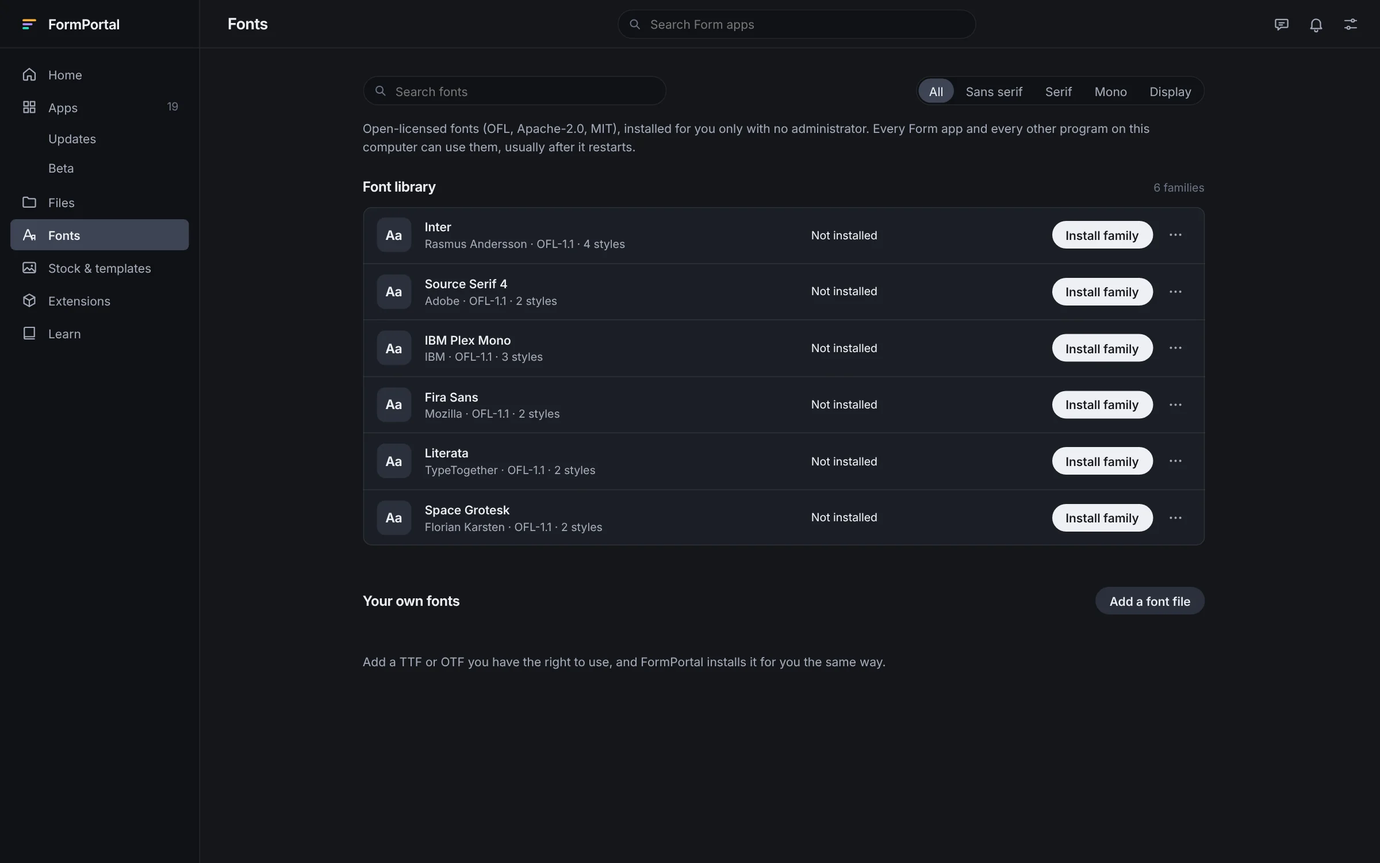
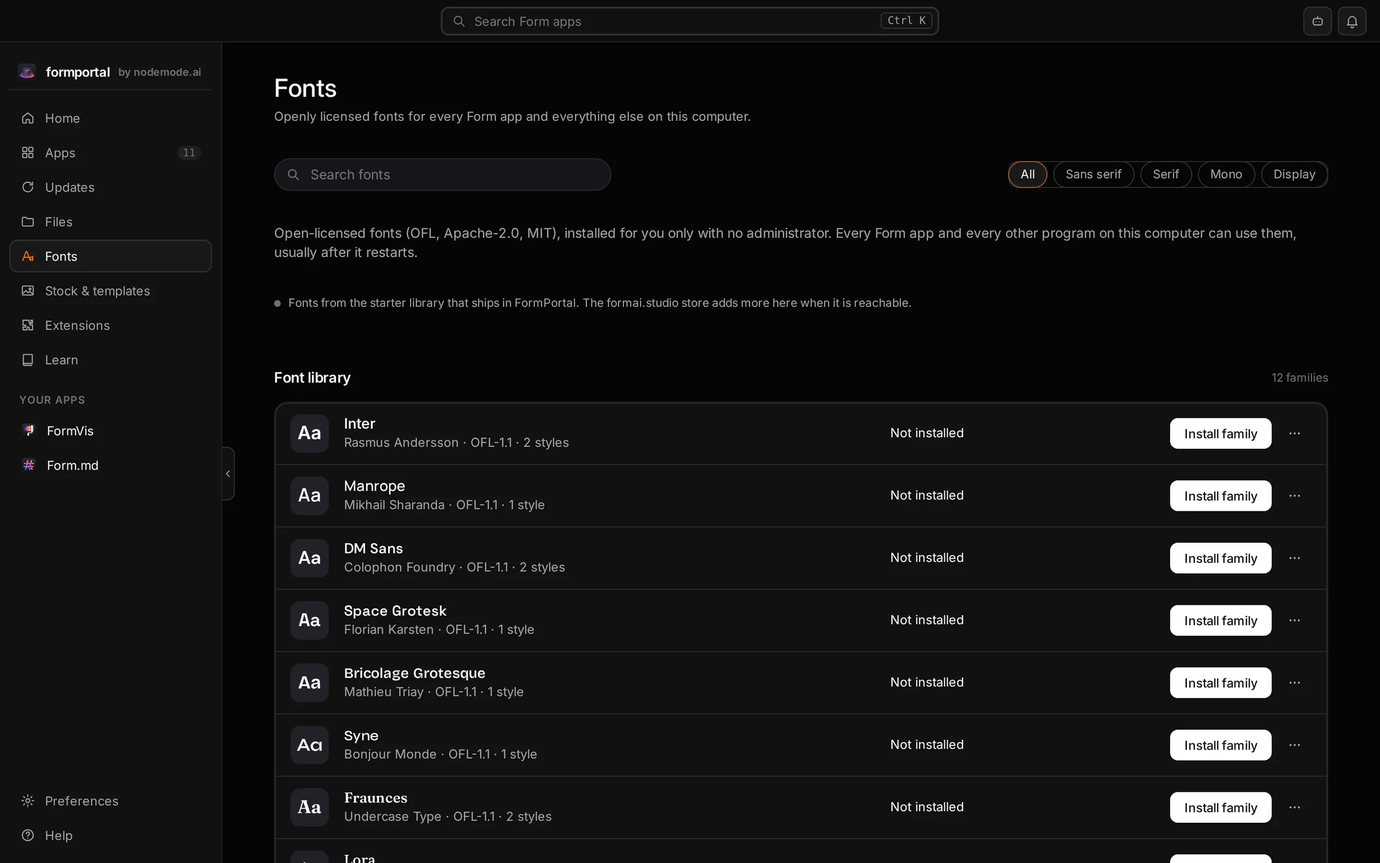
docs: the store contract, the starter library's licences, v0.60.0 notes and logs

diff --git a/core/HASHOUT_LOG.md b/core/HASHOUT_LOG.md
@@ -2,8 +2,31 @@
 
 Living log for `formportal-core`, FormPortal's engine in Rust (named `formai-core` and kept in formai_dev's `hub/core` up to formai_dev 0.26.0; entries below that date use the old names and paths). Source files stay comment-free; what they would have said lives here.
 
-Current build version: v0.59.0
-Last updated: 2026-11-06 · v0.59.0 disk images with a licence install (installers.rs, deploy.rs), the catalogue is formai.studio's again (35 products, every cap), open_links reads markup.ts; 2026-11-06 · v0.58.0 the identifier studio.formai.portal and the data-root move, the site client (upcoming, supporter check), the unannounced caps removed, releases.rs refactor; 2026-11-06 · v0.56.0 formai.dev removed from the links, the schemas and the fixtures, the support page allowed, formai_dev's schedule and app caps copied into catalog/; 2026-11-06 · releases read from each app's GitHub release (releases.rs), formcompiler's catalogue copy when the store cannot be reached, prelaunch apps with a release, the policy's github_releases; 2026-11-02 · the links FormPortal opens; 2026-10-26 · the test suite (core/tests); 2026-10-25 · the release's form-app.json in each install, the MCP program by name, every file's digest (merged from the v0.46.0-mcp branch); the managed package (deploy.rs, policy::check); the portfolio page and extension support links; sharing through the person's GitHub account (share.rs); the optional GitHub sign-in (github.rs, keyring, CoreError::Account); the login item (login.rs, open_at_login); Claude Code counted at user scope only, formMCP and formskills in the registry; form-app.json format_version 2, catalogue agents fields
+Current build version: v0.60.0
+Last updated: 2026-11-06 · v0.60.0 the kept catalogue first (catalog_kept, releases::apply_kept), one pooled agent with timeouts, release files sized at once, the starter library and the store (store.rs, bundled: downloads); 2026-11-06 · v0.59.0 disk images with a licence install (installers.rs, deploy.rs), the catalogue is formai.studio's again (35 products, every cap), open_links reads markup.ts; 2026-11-06 · v0.58.0 the identifier studio.formai.portal and the data-root move, the site client (upcoming, supporter check), the unannounced caps removed, releases.rs refactor; 2026-11-06 · v0.56.0 formai.dev removed from the links, the schemas and the fixtures, the support page allowed, formai_dev's schedule and app caps copied into catalog/; 2026-11-06 · releases read from each app's GitHub release (releases.rs), formcompiler's catalogue copy when the store cannot be reached, prelaunch apps with a release, the policy's github_releases; 2026-11-02 · the links FormPortal opens; 2026-10-26 · the test suite (core/tests); 2026-10-25 · the release's form-app.json in each install, the MCP program by name, every file's digest (merged from the v0.46.0-mcp branch); the managed package (deploy.rs, policy::check); the portfolio page and extension support links; sharing through the person's GitHub account (share.rs); the optional GitHub sign-in (github.rs, keyring, CoreError::Account); the login item (login.rs, open_at_login); Claude Code counted at user scope only, formMCP and formskills in the registry; form-app.json format_version 2, catalogue agents fields
+
+## v0.60.0 · instant catalogue, the starter library and the store {#store}
+
+### portal.rs · catalog_kept, releases.rs · apply_kept
+- refers-to: core/src/portal.rs :: Portal::catalog_kept · core/src/releases.rs :: apply_kept, discover
+- kind: fix
+- logged: v0.60.0 · 2026-11-06
+
+The owner: the app takes far too long to connect to the catalogue; it must be instant. Measured cause: `catalog()` was network-first (the kept `apps.json` was read only when the fetch failed) and ran `releases::discover` inside the same call, which on most launches (cache older than 15 min) crawled every product's GitHub release: the manifest through two redirects, SHA256SUMS, then a HEAD per artifact one after another, 15 to 20 requests per app across 26 threads, joined on the slowest. `catalog_kept` returns the kept, signature-checked `apps.json` with every kept release that is still sound merged in by `apply_kept`, with no network at all, so the window paints from it at once; `catalog()` is unchanged in what it returns and runs after. A missing kept file is an error, and the interface then waits for the network as before. `discover` no longer returns early when `yanked.json` cannot be fetched but a kept yank list exists; it uses the kept one, so a flaky raw.githubusercontent.com no longer drops every release.
+
+### download.rs · agent, releases.rs · sizes at once
+- refers-to: core/src/download.rs :: agent, fetch_text, fetch_bytes · core/src/releases.rs :: agent, assemble
+- kind: fix
+- logged: v0.60.0 · 2026-11-06
+
+`fetch_bytes` and `fetch_text` called `ureq::get`, which builds a new agent per call (new DNS, TCP and TLS each time) with a 30 s connect timeout and no read or overall timeout, so one stalled read hung the whole start. They now share one agent: 4 s connect, 10 s read, 20 s overall, 8 idle connections per host. The release agent keeps 16 idle connections per host. `assemble` sizes every classified artifact in parallel (one scoped thread each) instead of one after another. Large downloads (`download()`) keep their own path with no overall timeout, on purpose.
+
+### store.rs · the starter library and the store
+- refers-to: core/src/store.rs :: Portal::font_library, media_library, extension_library, read, set_reader, Shelf · core/src/download.rs :: download (bundled:) · core/data/store-*.json · cli/src/ops.rs :: fonts, font_install, media, media_save, ext_index
+- kind: decision
+- logged: v0.60.0 · 2026-11-06
+
+The owner: Fonts, Stock & templates and Extensions are blank, and need the right assets bundled in the build plus a connection to the site's store (a marketplace in the spirit of a stock and add-on store). Cause of blank: each page read only a signed index beside the catalogue (`dl.formai.studio/catalog/fonts.json`, `media.json`, `extensions.json`) and all three return 404; nothing was bundled, unlike Learn. Now each page is a `Shelf`: the starter index compiled in (`include_str!` of `core/data/store-*.json`) with the remote index merged over it by `id`, the remote tried at the store first (`https://formai.studio/catalog/v1/<name>`) and then beside the catalogue, each still signature-checked by the existing `font_index`, `media_index` and `extension_index` (so policy locks and allow_unsigned behave as before). `reached` names the source that answered; `missed` carries why none did. Starter files use `bundled:<path>`: `download()` reads them through `store::read` (the shell's asset resolver, then `FORMPORTAL_STORE`, then the repository's `frontend/public/store` found from the executable, for the command line) and checks the same sha256 before handing the file on, so installs, saves and template copies take one path. A `bundled:` path with anything but plain components is refused. Extensions ship an empty starter index: none of formcut, formvis or formwav publishes a package in the `formai-package` format (formcut's seven registry zips are its own format, with warm-dust's manifest not at the zip root), and nothing was invented. Measured: the command line lists 12 families and 9 items with the store unreachable, installs Space Grotesk and saves a photograph from the bundled files with matching checksums. The store contract for the site is `.docs/wiki/Store.md`.
 
 ## v0.59.0 · installs that work, the site's catalogue {#installs}
 

diff --git a/frontend/HASHOUT_LOG.md b/frontend/HASHOUT_LOG.md
@@ -2,8 +2,24 @@
 
 Living log for FormPortal's interface (formai_dev's `hub/frontend` up to formai_dev 0.26.0; older entries keep the old paths). Source files stay comment-free; what they would have said lives here. Tokens, icons and the marker renderer are logged in `design/HASHOUT_LOG.md`.
 
-Current build version: v0.59.0
-Last updated: 2026-11-06 · v0.59.0 the family redesign (shell, icon rail, Home, Apps, app pages with hero shots, file drop), the site's 34 apps and names; 2026-11-06 · v0.58.0 Date to come and supporter names, nothing paints before the reveal, no app before its release; 2026-11-06 · v0.57.0 every icon in the dark and light v3 sets, following the theme (tiles, Files, the brand, the splash, the app icon); 2026-11-06 · only released apps shown (live), On the way, What it does from formai_dev's app caps, the reveal waits for the catalogue; 2026-11-06 · the family look (formvis v1.99.7 tokens, dark by default, shared accent, no scrollbars, the macOS title row) and Preferences rebuilt in formvis's structure; 2026-11-06 · the scroll fix measured in WebKit, Included on a reopen, prelaunch apps with a release, formai.studio in the wording; 2026-11-03 · the stage scrolls again; 2026-11-02 · repository links in nodemode-dev; 2026-10-25 · Included, Support the maker, the portfolio line; Agent skills on app pages, formMCP in the Agents sections; every app tile is the app's own icon; the catalogue follows formcompiler's registry; Share, Public link and Shared with you in Files; Preferences, Account (the GitHub sign-in); the font is decided before the first frame; open at login; release dates in Other versions
+Current build version: v0.60.0
+Last updated: 2026-11-06 · v0.60.0 the kept catalogue paints first, the start runs in parallel, the starter library (fonts in their own faces, stock thumbnails from the app), the store note, Extensions reloads on open; 2026-11-06 · v0.59.0 the family redesign (shell, icon rail, Home, Apps, app pages with hero shots, file drop), the site's 34 apps and names; 2026-11-06 · v0.58.0 Date to come and supporter names, nothing paints before the reveal, no app before its release; 2026-11-06 · v0.57.0 every icon in the dark and light v3 sets, following the theme (tiles, Files, the brand, the splash, the app icon); 2026-11-06 · only released apps shown (live), On the way, What it does from formai_dev's app caps, the reveal waits for the catalogue; 2026-11-06 · the family look (formvis v1.99.7 tokens, dark by default, shared accent, no scrollbars, the macOS title row) and Preferences rebuilt in formvis's structure; 2026-11-06 · the scroll fix measured in WebKit, Included on a reopen, prelaunch apps with a release, formai.studio in the wording; 2026-11-03 · the stage scrolls again; 2026-11-02 · repository links in nodemode-dev; 2026-10-25 · Included, Support the maker, the portfolio line; Agent skills on app pages, formMCP in the Agents sections; every app tile is the app's own icon; the catalogue follows formcompiler's registry; Share, Public link and Shared with you in Files; Preferences, Account (the GitHub sign-in); the font is decided before the first frame; open at login; release dates in Other versions
+
+## v0.60.0 · instant start and the store {#store}
+
+### main.ts · catalog.load
+- refers-to: frontend/src/main.ts :: catalog.load, ext.load, extRefresh, media.thumb, revealLate · frontend/src/bridge/{index,tauri,fixture}.ts :: catalogKept · frontend/public/splash.css
+- kind: fix
+- logged: v0.60.0 · 2026-11-06
+
+`catalog.load` awaited platform, policy, installs, preferences and the later list one by one, then the network catalogue, then the extension index before `data-loaded` (which hides every Install and Open button), then `auto_update`, which fetched the catalogue a second time. Now the five local reads run together, the kept catalogue (`catalogKept`, no network) is painted and `data-loaded` set at once, the extension, file, Learn and font loads start without waiting, and the network catalogue repaints when it lands; the shell answers `auto_update` from the catalogue it just fetched. The reveal fallback is 900 ms (was 2400) and the splash bar fills in 0.7 s to match the shell's 700 ms minimum. The browser fixture's `?cold` starts with no kept catalogue.
+
+### fonts, stock, library · the starter library and the store note
+- refers-to: frontend/src/extensions/fonts/index.ts · frontend/src/extensions/stock/index.ts · frontend/src/extensions/library/index.ts · frontend/src/extensions/storenote.ts · frontend/index.html :: [data-store-note], [data-ext-empty] · frontend/src/styles/portal.css :: .row.font[data-face], .store-note · frontend/public/store/
+- kind: decision
+- logged: v0.60.0 · 2026-11-06
+
+Each font row loads its family from the app's own files (`/store/fonts/...`, a `FontFace` named `formportal-store-<id>`, upright style first) and shows the "Aa" tile and the family name in it once loaded (`data-face`); the name keeps a fixed 20 px line so the swap moves nothing. Stock cards whose thumbnail is an app path (`/store/thumbs/<id>.webp`) set it directly instead of asking the shell to fetch it. A line under each page's intro says whether the list came from the formai.studio store (green dot) or the starter library alone (grey). Extensions reloads its index each time the page opens and its empty state says why it is empty. The browser fixture now serves the real starter indexes (`core/data/store-*.json`), so the dev pages match the app; `?extfixture` brings back the sample extension entries.
 
 ## v0.59.0 · the Form family redesign {#family}
 

diff --git a/LICENSES.md b/LICENSES.md
@@ -49,7 +49,30 @@ The Linux AppImage also carries the build machine's WebKitGTK, GTK and GLib (LGP
 
 `cli/` (the `formportal` command and its `mcp` server) adds no crate beyond those core already uses.
 
+## Starter library (Fonts, Stock and templates)
+
+Since v0.60.0 FormPortal ships a starter library in `frontend/public/store/`, built into the app and listed by `core/data/store-fonts.json`, `store-media.json` and `store-extensions.json`. Every file is unmodified from its source except the photographs, which are resized to their published size and stripped of metadata, and the font files, which are renamed only (the fonts themselves are untouched, so no Reserved Font Name is affected).
+
+| Item | Licence | Copyright or author | Source |
+|---|---|---|---|
+| Inter | OFL-1.1 | Copyright 2020 The Inter Project Authors | https://github.com/google/fonts/tree/main/ofl/inter |
+| Manrope | OFL-1.1 | Copyright 2018 The Manrope Project Authors | https://github.com/google/fonts/tree/main/ofl/manrope |
+| DM Sans | OFL-1.1 | Copyright 2014 The DM Sans Project Authors | https://github.com/google/fonts/tree/main/ofl/dmsans |
+| Space Grotesk | OFL-1.1 | Copyright 2020 The Space Grotesk Project Authors | https://github.com/google/fonts/tree/main/ofl/spacegrotesk |
+| Bricolage Grotesque | OFL-1.1 | Copyright 2022 The Bricolage Grotesque Project Authors | https://github.com/google/fonts/tree/main/ofl/bricolagegrotesque |
+| Syne | OFL-1.1 | Copyright 2017 The Syne Project Authors | https://github.com/google/fonts/tree/main/ofl/syne |
+| Fraunces | OFL-1.1 | Copyright 2018 The Fraunces Project Authors | https://github.com/google/fonts/tree/main/ofl/fraunces |
+| Lora | OFL-1.1 | Copyright 2011 The Lora Project Authors, Reserved Font Name "Lora" | https://github.com/google/fonts/tree/main/ofl/lora |
+| Instrument Serif | OFL-1.1 | Copyright 2022 The Instrument Serif Project Authors | https://github.com/google/fonts/tree/main/ofl/instrumentserif |
+| JetBrains Mono | OFL-1.1 | Copyright 2020 The JetBrains Mono Project Authors | https://github.com/google/fonts/tree/main/ofl/jetbrainsmono |
+| IBM Plex Mono | OFL-1.1 | Copyright 2017 IBM Corp., Reserved Font Name "Plex" | https://github.com/google/fonts/tree/main/ofl/ibmplexmono |
+| Caveat | OFL-1.1 | Copyright 2014 The Caveat Project Authors | https://github.com/google/fonts/tree/main/ofl/caveat |
+| Eight photographs (portrait in a headwrap, coffee at a market, alpine valley, sunset storm cloud, bicycle in snow, peppers, Trajan's Market, tea with lemon) | CC0-1.0 | Wilfredor, DimiTalen, Jebulon, Nayan j Nath on Wikimedia Commons | each item's `source_url` in `core/data/store-media.json` |
+| FormCut gentle warm colour LUT | Apache-2.0 | Copyright 2026 NodeAgentc, Inc. | https://github.com/nodemode-dev/formcut/blob/1e9b4f3bb664b7b0fae0ab9d209d9e2d8a3852e9/examples/gentle-warm.cube |
+
+Fonts came from google/fonts at commit 86aced91de05cd4f96a06838124cca45be337b2b; each family's full OFL text is beside its files. CC0 covers copyright only: two photographs show identifiable people and no model release is known, so they are offered for editorial and creative use and the credit line travels with them. Items the formai.studio store adds at run time carry their own licences in the signed store index; FormPortal refuses any licence outside the allow lists in `core/src/fonts.rs` and `core/src/media.rs`.
+
 ## Rules
 
 - Permissive licences (MIT, Apache-2.0, BSD, ISC, zlib) anywhere. MPL-2.0 only with its files unedited. LGPL only as a separable binary. Nothing GPL in anything distributed. Nothing AGPL anywhere.
-- FormPortal ships no media tools and no models. The apps it installs carry their own ledgers.
+- FormPortal ships no media tools and no models. The apps it installs carry their own ledgers. The only content it ships is the starter library above.

diff --git a/.docs/wiki/Store.md b/.docs/wiki/Store.md
@@ -1,0 +1,39 @@
+# The store
+
+Fonts, Stock and templates, and Extensions each show two things merged into one list: the starter library that ships inside FormPortal, and whatever the formai.studio store offers right now. The starter library is always there, so none of the three pages is ever empty because the network is slow or the store is down. The store adds to it and can replace a starter item by publishing the same `id`.
+
+## Where FormPortal looks
+
+For each page, in this order, the first answer wins:
+
+1. An organisation's policy, when it locks the catalogue: `<catalogue folder>/fonts.json`, `media.json` or `extensions.json`.
+2. The formai.studio store: `https://formai.studio/catalog/v1/fonts.json`, `/media.json`, `/extensions.json`.
+3. The folder beside the app catalogue: `https://dl.formai.studio/catalog/fonts.json` and so on.
+
+Each index needs its detached signature beside it (`fonts.json.sig`, and so on): base64 Ed25519 over the exact bytes served, made with the catalogue key whose public half is in `core/catalog_keys.txt`. The site already signs `/catalog/v1/apps.json` with that key (`site/backend/app/main.py`, `signed_catalog`), so the store indexes can be signed the same way. An unsigned or tampered index is refused and the page keeps the starter library. Requests have a 4 s connect and 10 s read limit and run after the window has painted, so a slow store never delays the app.
+
+## What the site serves
+
+| Route | Body | Shape |
+|---|---|---|
+| `GET /catalog/v1/fonts.json` and `.sig` | the font index | `formai-fonts`, see [Fonts](Fonts) |
+| `GET /catalog/v1/media.json` and `.sig` | photos, footage, audio and templates | `formai-media`, see [Stock and Templates](Stock-and-Templates) |
+| `GET /catalog/v1/extensions.json` and `.sig` | extension packages | `formai-extensions`, `catalog/schema/extensions.schema.json` |
+
+Rules every entry must meet, or FormPortal refuses it:
+
+- `url` is `https://`. FormPortal downloads it and checks `sha256` and `bytes` before anything lands on disk.
+- `licence` is on the allow list: fonts OFL-1.1, Apache-2.0 or MIT; media CC0-1.0, CC-BY-4.0, CC-BY-SA-4.0, Apache-2.0, MIT or OFL-1.1. Media needs `creator` and `source_url` for the credit line.
+- Media `thumbnail` is an `https://` PNG, JPEG or WebP of at most 512 KB. Font files are TTF or OTF (no WOFF).
+- Extensions follow `package.schema.json`: the zip has `manifest.json` at its root with `format: formai-package`, and its `id`, `product` and `version` equal the index entry's. A native extension also needs a publisher signature.
+- `id`s stay stable between releases: installed fonts are matched to updates by family `id` and style name.
+
+## The starter library
+
+`core/data/store-fonts.json`, `store-media.json` and `store-extensions.json` list it; the files are in `frontend/public/store/` and are compiled into the app. Their `url`s use `bundled:<path>`, which FormPortal reads from its own files (or, for the command line, from `FORMPORTAL_STORE` or the repository's `frontend/public/store`), then checks against the same `sha256` as a download. Starter thumbnails are app paths (`/store/thumbs/<id>.webp`) and show without any network. Licences for every starter file are in `LICENSES.md`.
+
+To change the starter library: put the file under `frontend/public/store/`, add its entry with real `bytes` and `sha256`, add its row to `LICENSES.md`, and keep the whole library small (it ships in every installer; about 7 MB in v0.60.0).
+
+## What each page says
+
+A line under each page's intro says where the list came from: the store (a green dot) or the starter library alone (a grey dot, with "The formai.studio store adds more here when it is reachable"). The command line reports the same as `index_error` when the store was not reached.

diff --git a/src-tauri/HASHOUT_LOG.md b/src-tauri/HASHOUT_LOG.md
@@ -2,8 +2,31 @@
 
 Living log for FormPortal's desktop shell (formai_dev's `hub/src-tauri` up to formai_dev 0.26.0; older entries keep the old names). Source files stay comment-free; what they would have said lives here.
 
-Current build version: v0.58.0
-Last updated: 2026-11-06 · v0.58.0 the identifier, the web view's data, the second launch, clippy; 2026-11-06 · v0.57.0 the bundle icons from the v3 set, the app icon follows the theme (app_icon.rs); 2026-11-06 · v0.56.0 the family splash and reveal; 2026-11-03 · v0.54.1 the bundle names the publisher and the licence; 2026-11-03 · the release ships the installers; 2026-11-02 · updates from the public download store; 2026-10-30 · the build scripts for formcompiler; 2026-10-25 · install passes the release; the sharing commands; the GitHub sign-in commands; the login item; the save watcher; file_preview
+Current build version: v0.60.0
+Last updated: 2026-11-06 · v0.60.0 catalog_kept, the fetched catalogue held 90 s, the splash minimum 700 ms, the store's asset reader; 2026-11-06 · v0.58.0 the identifier, the web view's data, the second launch, clippy; 2026-11-06 · v0.57.0 the bundle icons from the v3 set, the app icon follows the theme (app_icon.rs); 2026-11-06 · v0.56.0 the family splash and reveal; 2026-11-03 · v0.54.1 the bundle names the publisher and the licence; 2026-11-03 · the release ships the installers; 2026-11-02 · updates from the public download store; 2026-10-30 · the build scripts for formcompiler; 2026-10-25 · install passes the release; the sharing commands; the GitHub sign-in commands; the login item; the save watcher; file_preview
+
+## v0.60.0 · instant start and the store {#store}
+
+### main.rs · catalog_kept, fetch_catalog, recent_catalog
+- refers-to: src-tauri/src/main.rs :: catalog, catalog_kept, fetch_catalog, recent_catalog, FETCHED, install, updates, auto_update, repair · core/HASHOUT_LOG.md#store
+- kind: fix
+- logged: v0.60.0 · 2026-11-06
+
+`hub()` builds a new Portal per command, so `catalog`, `auto_update`, `updates`, `install` and `repair` each fetched the catalogue and ran the release check again. `catalog` now stores what it fetched (with its URL and the unsigned setting) for 90 s, and the other four use that copy when it matches and is fresh, or fetch once. `catalog_kept` is new: the kept catalogue with no network, for the first paint.
+
+### reveal.rs · SPLASH_MIN
+- refers-to: src-tauri/src/reveal.rs :: SPLASH_MIN · frontend/public/splash.css
+- kind: decision
+- logged: v0.60.0 · 2026-11-06
+
+The owner asked for an instant start; the 2.6 s minimum (copied from formvis) held the window back even when the page was ready. It is 700 ms, enough for the splash card to read as intended, and the splash bar animation follows. The 20 s fallback and the 220 ms bar finish are unchanged.
+
+### main.rs · the store's asset reader
+- refers-to: src-tauri/src/main.rs :: setup (store::set_reader) · core/src/store.rs :: read
+- kind: decision
+- logged: v0.60.0 · 2026-11-06
+
+The starter library lives in `frontend/public/store/`, so it is in the app's embedded frontend, served to the page (font previews, thumbnails) and read by the engine through `app.asset_resolver()` for `bundled:` installs. No `bundle.resources` entry and no resource folder are needed, and `tauri dev` reads the same files from the built `frontend/dist` (build the frontend first).
 
 ## v0.58.0 · the identifier, the web view's data, the second launch {#identifier}
 

diff --git a/CHANGELOG.md b/CHANGELOG.md
@@ -2,6 +2,16 @@
 
 FormPortal's own release notes. Each Form app publishes its own; FormPortal shows them under Details.
 
+## v0.60.0 · 2026-11-06
+
+- FormPortal opens straight onto your apps. It shows the catalogue it already has the moment the window appears, then checks formai.studio and GitHub for anything newer in the background, instead of waiting on the network every time it starts.
+- The start-up check is much quicker when it does run: connections are reused, every request gives up after a few seconds instead of hanging, each app's release files are sized at the same time instead of one by one, and the catalogue is fetched once per start instead of twice.
+- The splash screen no longer holds the window back for a fixed 2.6 seconds.
+- Fonts is no longer empty: twelve open fonts ship inside FormPortal (Inter, Manrope, DM Sans, Space Grotesk, Bricolage Grotesque, Syne, Fraunces, Lora, Instrument Serif, JetBrains Mono, IBM Plex Mono and Caveat), each shown in its own typeface, and they install without a download.
+- Stock & templates is no longer empty: eight public-domain photographs and FormCut's warm colour look ship inside FormPortal, each with its credit line.
+- Fonts, Stock & templates and Extensions now connect to the formai.studio store. Whatever the store offers is added to the starter library, and each page says whether the store answered.
+- Extensions explains that no Form app has published one yet, instead of showing a blank page, and checks again each time you open it.
+
 ## v0.59.0 · 2026-11-06
 
 - Installing works on macOS again. Form apps come as disk images with a licence, and FormPortal now accepts it for you instead of the install being cancelled.

diff --git a/README.md b/README.md
@@ -69,13 +69,13 @@
       <img src="docs/images/formportal-fonts.webp" alt="The Fonts page with open-licensed font families and Install family buttons" width="100%">
       <br><sub>Open-licensed fonts, installed for you alone.</sub>
       <h3>Fonts without an account</h3>
-      Install families from a signed index, or your own TTF and OTF files, with no administrator.
+      Twelve open families ship inside FormPortal, each shown in its own typeface; the formai.studio store adds more. Your own TTF and OTF files install the same way, with no administrator.
     </td>
     <td width="50%" valign="top">
       <img src="docs/images/formportal-stock.webp" alt="The Stock and templates page with openly licensed images and Form app templates" width="100%">
       <br><sub>Stock and templates, each saved with its credit line.</sub>
       <h3>Stock and templates</h3>
-      Openly licensed images, video, audio and Form app templates. A template opens in its app in one step.
+      Public-domain photographs and Form app templates ship inside FormPortal, and the formai.studio store adds more. Each saves with its credit line, and a template opens in its app in one step.
     </td>
   </tr>
 </table>

diff --git a/.docs/wiki/Stock-and-Templates.md b/.docs/wiki/Stock-and-Templates.md
@@ -4,7 +4,7 @@ FormPortal offers open-licensed images, video, audio and Form app templates, sav
 
 ## The index
 
-`media.json` sits beside the catalogue (in the same folder as `apps.json`, so `https://dl.formai.studio/catalog/media.json` once published there, or `FORMPORTAL_MEDIA`) with a detached Ed25519 signature `media.json.sig`, made with the catalogue's key. When an organisation locks the catalogue, the media index follows it.
+FormPortal ships a starter library of open photos and templates and merges the formai.studio store's `media.json` over it; where it looks and how the store signs it are in [Store](Store). The same index can also sit beside the catalogue (in the same folder as `apps.json`, or `FORMPORTAL_MEDIA`) with a detached Ed25519 signature `media.json.sig`, made with the catalogue's key. When an organisation locks the catalogue, the media index follows it.
 ```json
 {
   "format": "formai-media",

diff --git a/.docs/wiki/Fonts.md b/.docs/wiki/Fonts.md
@@ -4,7 +4,7 @@ FormPortal installs open-licensed fonts for the person using it, and their own f
 
 ## The index
 
-`fonts.json` sits beside the catalogue (in the same folder as `apps.json`, so `https://dl.formai.studio/catalog/fonts.json` once published there, or `FORMPORTAL_FONTS`) with a detached Ed25519 signature `fonts.json.sig`, made with the catalogue's key.
+FormPortal ships a starter library of open fonts and merges the formai.studio store's `fonts.json` over it; where it looks and how the store signs it are in [Store](Store). The same index can also sit beside the catalogue (in the same folder as `apps.json`, or `FORMPORTAL_FONTS`) with a detached Ed25519 signature `fonts.json.sig`, made with the catalogue's key.
 
 ```json
 {

diff --git a/.docs/wiki/_Sidebar.md b/.docs/wiki/_Sidebar.md
@@ -9,6 +9,7 @@
 - [Files and Versions](Files-and-Versions)
 - [Fonts](Fonts)
 - [Stock and Templates](Stock-and-Templates)
+- [Store](Store)
 - [Learn and Assistant](Learn-and-Assistant)
 - [Languages and Launch](Languages-and-Launch)
 - [Repair and Handoff](Repair-and-Handoff)
